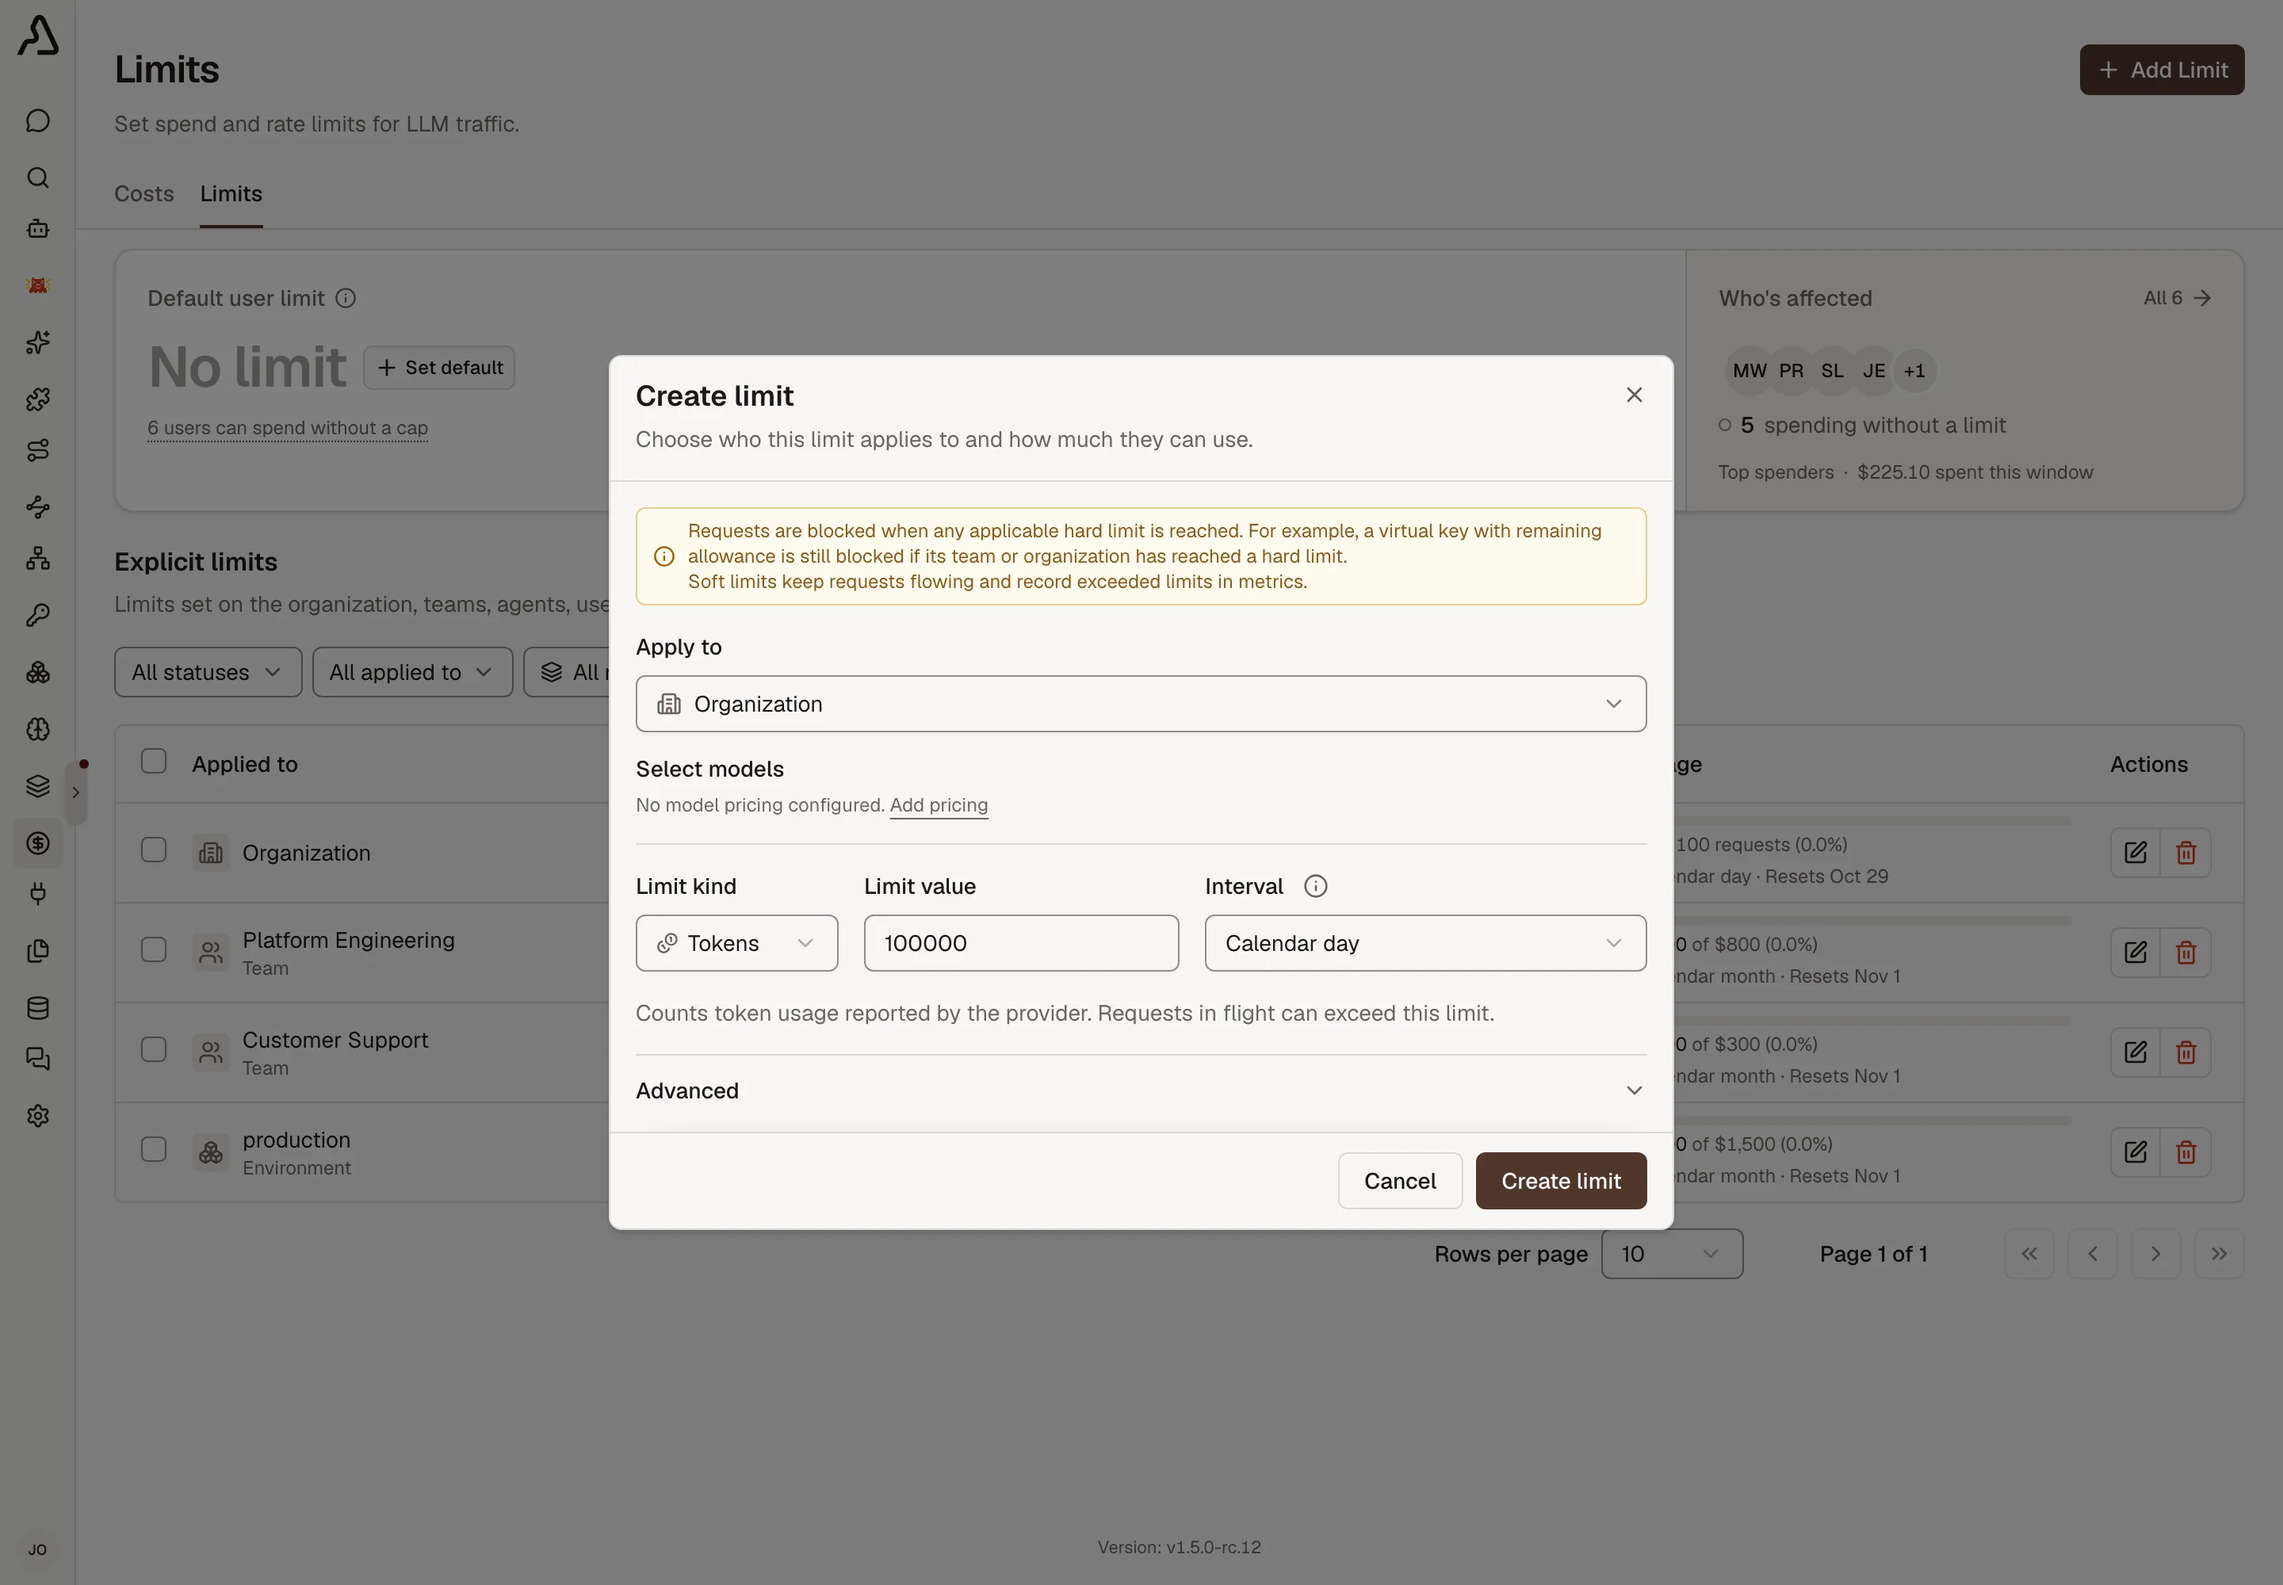
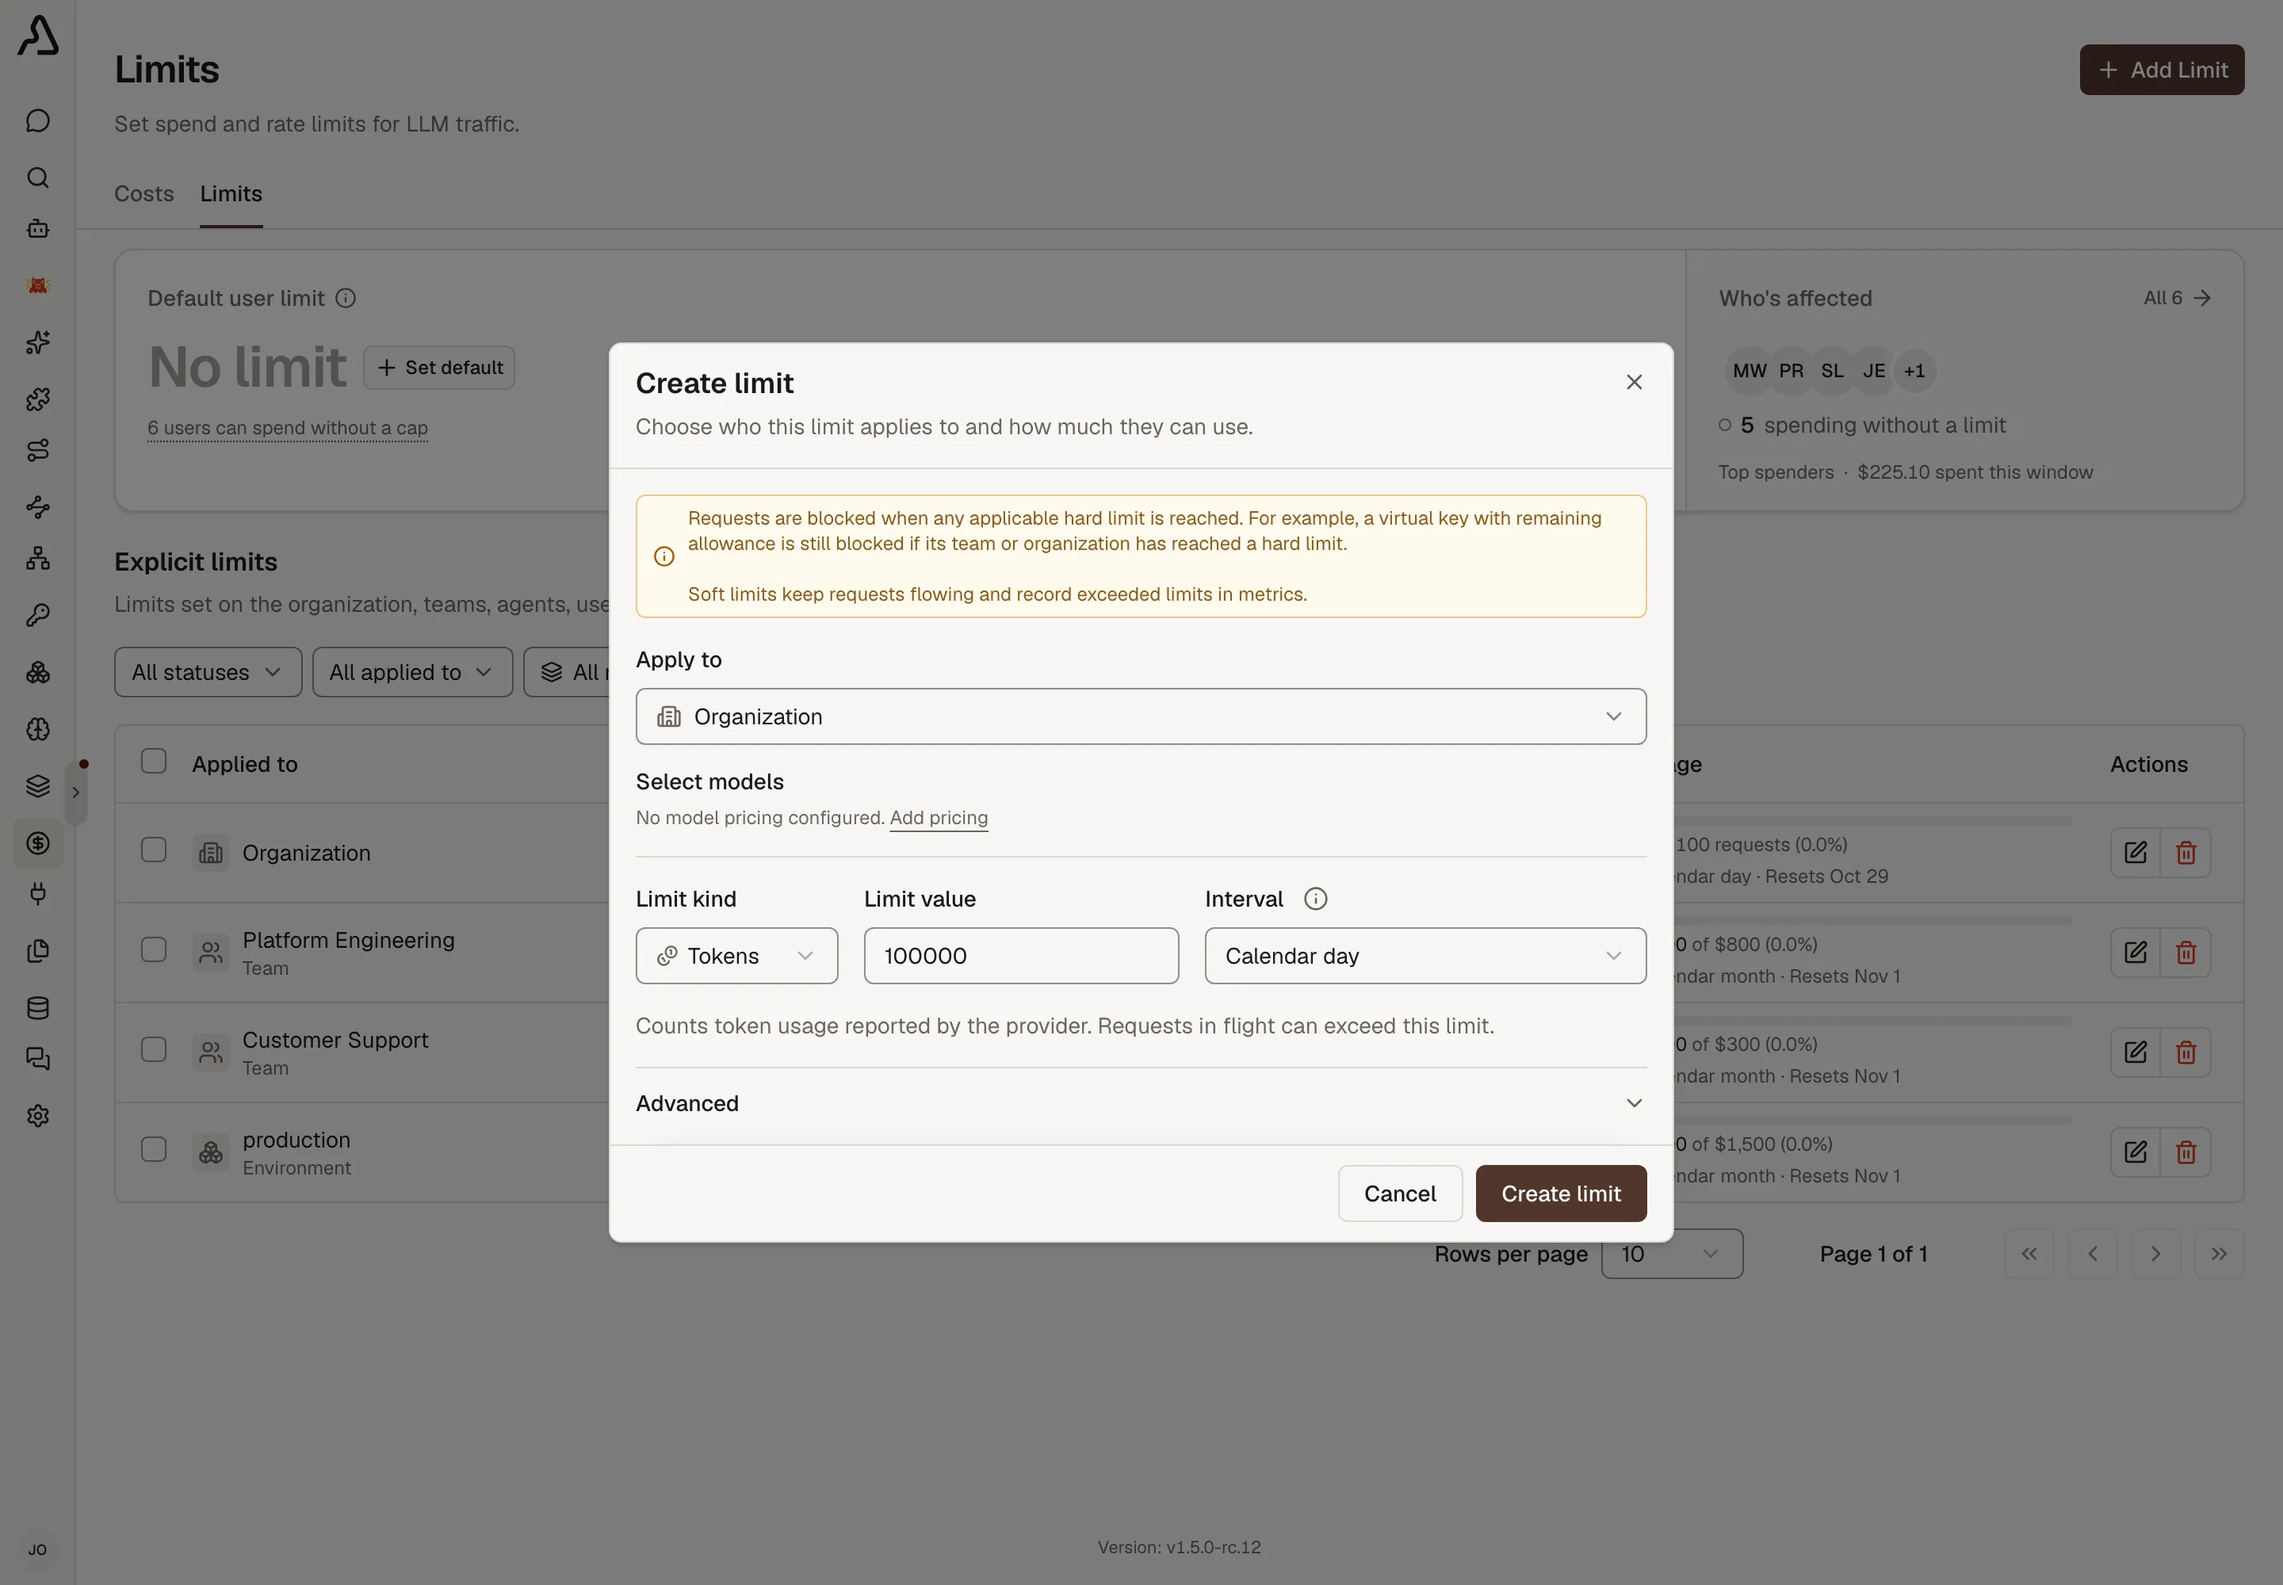
fix(limits): clarify behavior and space notice paragraphs

Changed region(s): [[0.25, 0.217, 0.75, 0.651], [0.25, 0.713, 0.75, 0.806], [0.2812, 0.682, 0.3438, 0.713]]

diff --git a/platform/frontend/src/app/llm/(costs)/limits/page.tsx b/platform/frontend/src/app/llm/(costs)/limits/page.tsx
@@ -1100,6 +1100,7 @@ export default function LimitsPage() {
                 For example, a virtual key with remaining allowance is still
                 blocked if its team or organization has reached a hard limit.
                 <br />
+                <br />
                 Soft limits keep requests flowing and record exceeded limits in
                 metrics.
               </InlineNoticeText>
@@ -1475,6 +1476,13 @@ export default function LimitsPage() {
             <AdvancedSection keepMounted>
               <div className="space-y-2">
                 <Label htmlFor="limit-behavior">Behavior</Label>
+                <p
+                  id="limit-behavior-description"
+                  className="text-sm text-muted-foreground"
+                >
+                  Choose whether reaching this limit blocks requests or only
+                  records metrics.
+                </p>
                 <Select
                   value={formState.behavior}
                   onValueChange={(value) =>
@@ -1487,6 +1495,7 @@ export default function LimitsPage() {
                   <SelectTrigger
                     id="limit-behavior"
                     aria-label="Behavior"
+                    aria-describedby="limit-behavior-description"
                     className="w-full"
                   >
                     <SelectValue>
